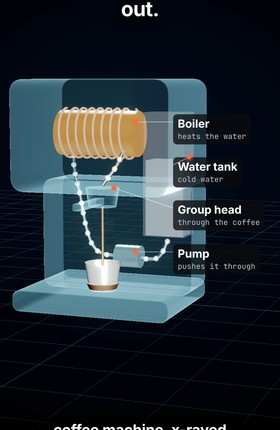
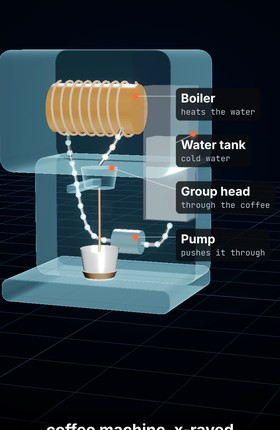
kitchen11 released (Type it, get it #11); made12 fixes after director review
Claude-Session: https://claude.ai/code/session_011mgQaKe9KwV1RxFx2jkPUr

diff --git a/hf/videos/made12/scenes.js b/hf/videos/made12/scenes.js
@@ -53,7 +53,7 @@ function labs(k,list){ return list.map(([i,o,a])=>[document.getElementById('l'+k
   const aS=new THREE.Object3D(); aS.position.set(1.0,0.09,0.75); sc.add(aS);
   const aW=new THREE.Object3D(); aW.position.set(1.0,0.3,0.6); sc.add(aW);
   const aP=new THREE.Object3D(); aP.position.set(1.1,0.1,0.6); sc.add(aP);
-  SCN[0]=function(lt){
+  SCN[0]=function(lt0){ const lt=lt0*1.35;
     // 0.0-0.6 powders press into rods that slide out; 0.45-0.8 baked (glow)
     const pr=easeIO(cl((lt-0.0)/0.5)); gp.scale.setScalar(Math.max(0.01,1-pr)); cp.scale.setScalar(Math.max(0.01,1-pr));
     const ext=easeIO(cl((lt-0.15)/0.45)); const bake=cl((lt-0.4)/0.15)*(1-cl((lt-0.8)/0.25)); leadM.emissiveIntensity=1.6*bake; glow.intensity=5*bake;
@@ -66,7 +66,7 @@ function labs(k,list){ return list.map(([i,o,a])=>[document.getElementById('l'+k
     const pa=cl((lt-1.95)/0.5); paintM.color.copy(lerpC(0xc88f5c,0xf2b21b,pa));
     const z=easeIO(cl(lt/2.6)); const ca=0.5-0.35*z; const rad=10.5-1.6*z; cam.position.set(Math.sin(ca)*rad,5.0-1.0*z,Math.cos(ca)*rad); cam.lookAt(0.2,0.1,-0.15+0.15*z); P.c.render();
     layoutLabels(labs(0,[[0,aL,cl((lt-0.1)/0.2)*(1-cl((lt-1.1)/0.2))],[1,aS,cl((lt-0.85)/0.2)*(1-cl((lt-1.7)/0.15))],[2,aW,cl((lt-1.25)/0.2)*(1-cl((lt-1.75)/0.15))],[3,aP,cl((lt-1.95)/0.2)]]),cam,640,130);
-    caption(0,lt); };
+    caption(0,lt0); };
   sc.traverse(o=>{ const ms=o.material?(Array.isArray(o.material)?o.material:[o.material]):[]; ms.forEach(m=>{ if(m.envMapIntensity!==undefined&&!m.userData.keepEnv) m.envMapIntensity=0.3; }); });
 })();
 
@@ -90,8 +90,8 @@ function labs(k,list){ return list.map(([i,o,a])=>[document.getElementById('l'+k
   const hop=new THREE.Mesh(new THREE.CylinderGeometry(0.45,0.12,0.7,32,1,true),new THREE.MeshPhysicalMaterial({color:0xb7c0ca,metalness:1,roughness:.3,side:THREE.DoubleSide})); hop.position.set(-1.9,BY+0.6,0); sc.add(hop);
   const NG=90, gran=new THREE.InstancedMesh(new THREE.SphereGeometry(0.03,8,6),new THREE.MeshStandardMaterial({color:RED,roughness:.4}),NG); sc.add(gran); const R=rnd(7), gs=[]; for(let i=0;i<NG;i++) gs.push([R(),R()*0.5-0.25,R()*0.5-0.25]);
   // mould: two steel blocks, right half slides away
-  const mL=new THREE.Mesh(new THREE.BoxGeometry(0.5,1.1,1.0),darkS); mL.position.set(0.45,BY,0); sc.add(mL);
-  const mR=new THREE.Mesh(new THREE.BoxGeometry(0.5,1.1,1.0),new THREE.MeshPhysicalMaterial({color:0x3a3f46,metalness:.9,roughness:.4,transparent:true,opacity:.35,depthWrite:false})); sc.add(mR);
+  const mouldM=new THREE.MeshPhysicalMaterial({color:0x8d969f,metalness:1,roughness:.28}); const mL=new THREE.Mesh(new THREE.BoxGeometry(0.5,1.1,1.0),mouldM); mL.position.set(0.45,BY,0); sc.add(mL);
+  const mR=new THREE.Mesh(new THREE.BoxGeometry(0.5,1.1,1.0),new THREE.MeshPhysicalMaterial({color:0x8d969f,metalness:1,roughness:.28,transparent:true,opacity:.55,depthWrite:false})); sc.add(mR);
   const nozzle=new THREE.Mesh(new THREE.ConeGeometry(0.12,0.3,24),steel); nozzle.rotation.z=-Math.PI/2; nozzle.position.set(0.12,BY,0); sc.add(nozzle);
   // brick 2x4 with studs (no logo)
   function brick(){ const g=new THREE.Group(); const b=new THREE.Mesh(rbox(0.64,0.38,0.32,0.02),redM); b.rotation.y=Math.PI/2; b.rotation.x=0; g.add(b);
@@ -105,10 +105,10 @@ function labs(k,list){ return list.map(([i,o,a])=>[document.getElementById('l'+k
   const shd=shadowPlane(5,4,.7); shd.position.y=0; sc.add(shd);
   const aG=new THREE.Object3D(); aG.position.set(-1.7,BY+0.9,0); sc.add(aG);
   const aB=new THREE.Object3D(); aB.position.set(-0.6,BY+0.25,0); sc.add(aB);
-  const aM=new THREE.Object3D(); aM.position.set(0.7,BY+0.55,0.3); sc.add(aM);
+  const aM=new THREE.Object3D(); aM.position.set(1.0,BY+0.3,0.5); sc.add(aM);
   const aO=new THREE.Object3D(); aO.position.set(1.05,0.75,0.6); sc.add(aO);
   const M4=new THREE.Matrix4();
-  SCN[1]=function(lt){
+  SCN[1]=function(lt0){ const lt=lt0*1.15;
     gs.forEach((s,i)=>{ const u=(s[0]+lt*1.3)%1; M4.makeTranslation(-1.9+s[1]*0.6*(1-u),BY+1.05-u*0.75,s[2]*0.6*(1-u)); if(lt>1.6) M4.makeScale(0,0,0); gran.setMatrixAt(i,M4); }); gran.instanceMatrix.needsUpdate=true;
     const heat=cl((lt-0.2)/0.4); bandM.emissiveIntensity=heat*(1.6+0.3*Math.sin(lt*9));
     screw.rotation.x=lt*8; const push=easeIO(cl((lt-0.6)/0.5)); screw.position.x=0.25*push;
@@ -120,7 +120,7 @@ function labs(k,list){ return list.map(([i,o,a])=>[document.getElementById('l'+k
     const mv=easeIO(cl((lt-2.3)/0.4)); old.forEach((b,i)=>{ b.position.z=0.6+(i+1)*0.9+0.9*mv; }); if(pop>=1) B0.position.z=0.6+0.9*mv;
     const z=easeIO(cl(lt/2.6)); const ca=0.75-0.25*z; const rad=11.5-1.2*z; cam.position.set(Math.sin(ca)*rad-0.4,4.2-0.6*z,Math.cos(ca)*rad); cam.lookAt(-0.4+0.3*z,0.9-0.1*z,0.6); P.c.render();
     layoutLabels(labs(1,[[0,aG,cl((lt-0.1)/0.2)],[1,aB,cl((lt-0.4)/0.2)],[2,aM,cl((lt-0.85)/0.2)],[3,aO,cl((lt-1.95)/0.2)]]),cam,660,130);
-    caption(1,lt); };
+    caption(1,lt0); };
   sc.traverse(o=>{ const ms=o.material?(Array.isArray(o.material)?o.material:[o.material]):[]; ms.forEach(m=>{ if(m.envMapIntensity!==undefined&&!m.userData.keepEnv) m.envMapIntensity=0.4; }); });
 })();
 
@@ -148,7 +148,7 @@ function labs(k,list){ return list.map(([i,o,a])=>[document.getElementById('l'+k
   const boreM=new THREE.MeshStandardMaterial({color:0x1a1715,roughness:1,side:THREE.BackSide});
   const bore=new THREE.Mesh(new THREE.CylinderGeometry(0.5,0.5,1,32,1,true),boreM); bore.rotation.z=Math.PI/2; sc.add(bore);
   const ringM=new THREE.MeshStandardMaterial({color:0xbab3a6,roughness:.8,side:THREE.DoubleSide});
-  const rings=[]; for(let x=X0+0.1;x<X1;x+=0.2){ const r=new THREE.Mesh(new THREE.CylinderGeometry(0.5,0.5,0.17,32,1,true,Math.PI,Math.PI),ringM); r.rotation.z=Math.PI/2; r.position.set(x,TY,0); sc.add(r); rings.push(r); }
+  const rings=[]; for(let x=X0+0.1;x<X1;x+=0.2){ const r=new THREE.Mesh(new THREE.TorusGeometry(0.47,0.05,8,40),ringM); r.rotation.y=Math.PI/2; r.position.set(x,TY,0); sc.add(r); rings.push(r); }
   const lampM=glowMat(0xffe0a0,0); const lamps=[]; for(let x=X0+0.2;x<X1;x+=0.4){ const l=new THREE.Mesh(new THREE.SphereGeometry(0.035,8,6),lampM); l.position.set(x,TY+0.38,-0.25); sc.add(l); lamps.push(l); }
   // shaft at the start
   const shaft=new THREE.Mesh(new THREE.BoxGeometry(0.7,1.7,0.9),new THREE.MeshStandardMaterial({color:0x2a2622,roughness:1,side:THREE.BackSide})); shaft.position.set(X0+0.35,TY+0.75,-0.3); sc.add(shaft);
@@ -161,9 +161,9 @@ function labs(k,list){ return list.map(([i,o,a])=>[document.getElementById('l'+k
     for(let j=-2;j<=2;j++){ if(!j) continue; const c=new THREE.Mesh(new THREE.CylinderGeometry(0.035,0.035,0.04,12),new THREE.MeshStandardMaterial({color:0x2a2c30,metalness:1,roughness:.3})); c.rotation.z=Math.PI/2; c.position.set(0.11,j*0.09*Math.cos(k*Math.PI/6),j*0.09*Math.sin(k*Math.PI/6)); head.add(c); } }
   const sparks=[]; for(let i=0;i<14;i++){ const s=new THREE.Mesh(new THREE.SphereGeometry(0.02,6,5),glowMat(0xffb060,0)); sc.add(s); sparks.push(s); }
   // conveyor with dirt chunks running back to the shaft
-  const conv=new THREE.Mesh(new THREE.BoxGeometry(1,0.03,0.18),new THREE.MeshStandardMaterial({color:0x26282b,roughness:.7})); sc.add(conv);
+  const conv=new THREE.Mesh(new THREE.BoxGeometry(1,0.04,0.26),new THREE.MeshStandardMaterial({color:0x3a3d42,roughness:.6})); sc.add(conv);
   const NC=40, chunks=new THREE.InstancedMesh(new THREE.DodecahedronGeometry(0.045),new THREE.MeshStandardMaterial({color:0x6b5138,roughness:1}),NC); sc.add(chunks);
-  const aH=new THREE.Object3D(); head.add(aH); aH.position.set(0.1,0.3,0.3);
+  const aH=new THREE.Object3D(); head.add(aH); aH.position.set(0.12,0.2,0.35);
   const aC=new THREE.Object3D(); sc.add(aC);
   const aR=new THREE.Object3D(); sc.add(aR);
   const M4=new THREE.Matrix4();
@@ -174,10 +174,10 @@ function labs(k,list){ return list.map(([i,o,a])=>[document.getElementById('l'+k
     sparks.forEach((s,i)=>{ const u=((i/14)+lt*2.5)%1; const a=i*2.4; s.position.set(fx+0.15+0.1*u,TY+Math.cos(a)*0.45*(1-u*0.3),Math.sin(a)*0.45+0.05); s.material.opacity=(lt<2.3?0.8:0)*(1-u); });
     const cx0=X0+0.5, cx1=fx-0.2; conv.scale.x=Math.max(0.01,cx1-cx0); conv.position.set((cx0+cx1)/2,TY-0.3,0.15);
     for(let i=0;i<NC;i++){ const u=((i/NC)+lt*0.8)%1; const x=cx1-(cx1-cx0)*u; M4.makeRotationY(i); M4.setPosition(x,TY-0.25,0.15+((i*37)%7-3)*0.012); if(x<cx0+0.05||lt>2.35) M4.makeScale(0,0,0); chunks.setMatrixAt(i,M4); } chunks.instanceMatrix.needsUpdate=true;
-    aC.position.set((cx0+cx1)/2,TY-0.25,0.2); aR.position.set(Math.max(X0+0.4,fx-2.2),TY+0.45,0.1);
+    aC.position.set(cx1-0.9,TY-0.27,0.2); aR.position.set(Math.max(X0+0.4,fx-1.9),TY+0.3,0.38);
     const lit=cl((lt-2.0)/0.5); skyM.uniforms.t.value=lit*0.9; lampM.opacity=lit; winM.opacity=lit*0.9; hemi.intensity=0.45-0.25*lit; sun.intensity=1.0*(1-0.7*lit); sun.color.copy(lerpC(0xfff0d8,0xff8a4a,lit));
     const z=easeIO(cl(lt/2.8)); cam.position.set(-7.6+1.0*z,1.3-0.2*z,12.6-0.8*z); cam.lookAt(0.4+0.4*z,-0.95,-0.3); P.c.render();
-    layoutLabels(labs(2,[[0,aH,cl((lt-0.25)/0.2)],[1,aC,cl((lt-0.7)/0.2)],[2,aR,cl((lt-1.1)/0.2)]]),cam,640,140);
+    layoutLabels(labs(2,[[0,aH,cl((lt-0.25)/0.2)],[1,aC,cl((lt-0.7)/0.2)],[2,aR,cl((lt-1.1)/0.2)]]),cam,690,140);
     caption(2,lt); };
   sc.traverse(o=>{ const ms=o.material?(Array.isArray(o.material)?o.material:[o.material]):[]; ms.forEach(m=>{ if(m.envMapIntensity!==undefined&&!m.userData.keepEnv) m.envMapIntensity=0.25; }); });
 })();

diff --git a/hf/videos/kitchen11/scenes.js b/hf/videos/kitchen11/scenes.js
@@ -60,12 +60,12 @@ function labs(k,list){ return list.map(([i,o,a])=>[document.getElementById('l'+k
   const stream=new THREE.Mesh(new THREE.CylinderGeometry(0.012,0.012,1,8),new THREE.MeshPhysicalMaterial({color:0x5a2e12,roughness:.1,clearcoat:1})); stream.position.set(0,0,0.22); M.add(stream);
   const steam=[]; for(let i=0;i<8;i++){ const s=new THREE.Mesh(new THREE.SphereGeometry(0.05,10,8),glowMat(0xffffff,0)); M.add(s); steam.push(s); }
   const scan=new THREE.Mesh(new THREE.PlaneGeometry(1.6,2.6),glowMat(0x7fe6ff,0)); scan.rotation.y=Math.PI/2; scan.position.y=1.2; sc.add(scan);
-  const scanL=new THREE.Mesh(new THREE.BoxGeometry(0.015,2.3,1.4),glowMat(0xbff4ff,0)); scanL.position.y=1.2; sc.add(scanL);
+  const scanL=new THREE.LineSegments(new THREE.EdgesGeometry(new THREE.PlaneGeometry(1.4,2.3)),new THREE.LineBasicMaterial({color:0xbff4ff,transparent:true,opacity:0,toneMapped:false})); scanL.rotation.y=Math.PI/2; scanL.position.y=1.2; sc.add(scanL);
   const grid=new THREE.GridHelper(14,28,0x2e6f99,0x173247); grid.material.transparent=true; grid.material.opacity=.5; grid.position.y=0.22; sc.add(grid);
   const A=(x,y,z)=>{ const o=new THREE.Object3D(); o.position.set(x,y,z); M.add(o); return o; };
   const aT=A(0.66,1.55,-0.38), aP=A(0.18,0.62,-0.2), aB=A(0.25,1.9,0), aG=A(0.15,1.3,0.3);
   SCN[0]=function(lt){ const s=1.5-3.0*easeIO(cl((lt-0.05)/0.85)); scanP.constant=s+0.3; scanX.constant=-(s+0.3); scan.position.x=s; scanL.position.x=s;
-    const sv=cl(lt/0.12)*(1-cl((lt-0.85)/0.15)); scan.material.opacity=0.12*sv; scanL.material.opacity=0.9*sv;
+    const sv=cl(lt/0.12)*(1-cl((lt-0.85)/0.15)); scan.material.opacity=0.06*sv; scanL.material.opacity=0.9*sv;
     const flow=cl((lt-0.85)/0.3), heat=cl((lt-1.05)/0.4);
     pump.material.emissiveIntensity=flow*(0.6+0.4*Math.sin(lt*30)); boilM.emissiveIntensity=heat*0.8; coilM.emissiveIntensity=heat*(1.6+0.3*Math.sin(lt*9));
     parts.forEach((m,i)=>{ const u=(i/NP+lt*0.55)%1; m.position.copy(path.getPointAt(u)); const hot=cl((u-0.6)/0.15)*heat; m.material.color.copy(lerpC(0x5fc8ff,0xffa040,hot)); m.material.opacity=flow*0.95; });
@@ -139,7 +139,7 @@ function labs(k,list){ return list.map(([i,o,a])=>[document.getElementById('l'+k
   const cam=new THREE.PerspectiveCamera(30,1080/1920,0.1,100);
   const P=mkComposer(ren,sc,cam,{bloom:0.55,radius:0.5,th:0.92});
   const key=new THREE.DirectionalLight(0xffffff,0.8); key.position.set(-3,7,5); sc.add(key); sc.add(new THREE.HemisphereLight(0xcfd8ff,0x201812,0.3));
-  const T=new THREE.Group(); T.rotation.y=0.55; sc.add(T);
+  const T=new THREE.Group(); T.rotation.y=0.55; T.scale.setScalar(0.9); sc.add(T);
   const chrome=new THREE.MeshPhysicalMaterial({color:0xd6dade,metalness:1,roughness:.3,clearcoat:.6,envMapIntensity:1.6});
   const dark=new THREE.MeshStandardMaterial({color:0x1c1e21,roughness:.5});
   // shell: rounded body with two slots cut in the top (built from a frame of slabs)
@@ -152,13 +152,13 @@ function labs(k,list){ return list.map(([i,o,a])=>[document.getElementById('l'+k
   const knob=new THREE.Mesh(new THREE.CylinderGeometry(0.07,0.07,0.05,24),dark); knob.rotation.x=Math.PI/2; knob.position.set(0.55,0.3,0.56); SH.add(knob);
   // base + crumb tray
   const base=new THREE.Mesh(rbox(1.75,0.08,1.1,0.04),dark); base.rotation.x=Math.PI/2; base.position.y=0.0; T.add(base);
-  const tray=new THREE.Mesh(new THREE.BoxGeometry(1.5,0.03,0.9),new THREE.MeshStandardMaterial({color:0x5d6268,metalness:.8,roughness:.6})); T.add(tray);
+  const tray=new THREE.Mesh(new THREE.BoxGeometry(1.5,0.03,0.9),new THREE.MeshStandardMaterial({color:0x4a4e54,metalness:.6,roughness:.75,envMapIntensity:.3})); T.add(tray);
   const crumbs=new THREE.InstancedMesh(new THREE.BoxGeometry(0.025,0.015,0.02),new THREE.MeshStandardMaterial({color:0x9a6a36,roughness:.9}),30); const R=rnd(3); const M4=new THREE.Matrix4();
   for(let i=0;i<30;i++){ M4.makeTranslation((R()-.5)*1.3,0.02,(R()-.5)*0.75); crumbs.setMatrixAt(i,M4); } tray.add(crumbs);
   // heating elements: mica sheet + zig-zag wire, at z = -0.38, 0, +0.38
-  const wireM=new THREE.MeshStandardMaterial({color:0x6b5a50,metalness:.6,roughness:.4,emissive:0xff3a10,emissiveIntensity:0});
+  const wireM=new THREE.MeshStandardMaterial({color:0x1a0a05,metalness:.3,roughness:.5,emissive:0xff2200,emissiveIntensity:0,toneMapped:false});
   const wireGlow=glowMat(0xff2a00,0);
-  const micaM=new THREE.MeshPhysicalMaterial({color:0xe9dcc0,roughness:.5,transparent:true,opacity:.55,side:THREE.DoubleSide});
+  const micaM=new THREE.MeshPhysicalMaterial({color:0x8a7a62,roughness:.6,transparent:true,opacity:.4,side:THREE.DoubleSide});
   const EL=[]; [-0.38,0,0.38].forEach(z=>{ const g=new THREE.Group(); g.userData.z=z; const mica=new THREE.Mesh(new THREE.PlaneGeometry(1.4,0.7),micaM); g.add(mica);
     const zz=new THREE.Curve(); zz.getPoint=t=>new THREE.Vector3(-0.66+1.32*t,0.3*Math.sin(t*Math.PI*22),0.012*Math.cos(t*Math.PI*44)); const tg=new THREE.TubeGeometry(zz,600,0.009,5,false); g.add(new THREE.Mesh(tg,wireM)); const gl=new THREE.Mesh(tg,wireGlow); gl.scale.set(1,1,1.6); g.add(gl);
     g.position.set(0,0.5,z); T.add(g); EL.push(g); });
@@ -171,13 +171,13 @@ function labs(k,list){ return list.map(([i,o,a])=>[document.getElementById('l'+k
   const aW=new THREE.Object3D(); aW.position.set(0.5,0.2,0); EL[2].add(aW);
   const aB=new THREE.Object3D(); aB.position.set(0.4,0.3,0.06); slices[1].add(aB);
   const aTr=new THREE.Object3D(); aTr.position.set(0.7,0,0.4); tray.add(aTr);
-  SCN[2]=function(lt){ const e=easeIO(cl((lt-0.3)/0.9));
+  SCN[2]=function(lt){ const e=easeIO(cl((lt-0.1)/0.65));
     SH.position.y=1.75*e; tray.position.set(0.25*e,-0.03-0.62*e,0); base.position.y=-0.05-0.45*e;
     EL.forEach(g=>{ g.position.z=g.userData.z*(1+1.9*e); }); slices.forEach(g=>{ g.position.z=g.userData.z*(1+2.6*e); g.position.y=0.5+0.15*e; });
-    const heat=cl((lt-1.15)/0.5); wireM.emissiveIntensity=heat*(2.2+0.3*Math.sin(lt*11)); wireGlow.opacity=heat*(0.4+0.05*Math.sin(lt*11)); breadM.emissiveIntensity=0.08*heat;
-    const brown=cl((lt-1.3)/0.9); breadM.color.copy(lerpC(0xd9bf8c,0x7a3c14,brown)); crustM.color.copy(lerpC(0xb5803f,0x4a2410,brown));
+    const heat=cl((lt-0.6)/0.35); wireM.emissiveIntensity=heat*(1.6+0.2*Math.sin(lt*11)); wireGlow.opacity=heat*(0.5+0.05*Math.sin(lt*11)); breadM.emissiveIntensity=0.08*heat;
+    const brown=cl((lt-0.75)/0.8); breadM.color.copy(lerpC(0xd9bf8c,0x7a3c14,brown)); crustM.color.copy(lerpC(0xb5803f,0x4a2410,brown));
     T.rotation.y=0.55+0.25*easeIO(cl(lt/3));
-    const z=easeIO(cl((lt-0.2)/1.4)); cam.position.set(-1.2,3.2+1.0*z,8.6+1.2*z); cam.lookAt(0,0.8+0.3*z,0); P.c.render();
-    layoutLabels(labs(2,[[0,aSh,cl((lt-0.7)/0.2)],[1,aW,cl((lt-1.25)/0.2)],[2,aB,cl((lt-1.55)/0.2)],[3,aTr,cl((lt-0.95)/0.2)]]),cam,650,130);
+    const z=easeIO(cl((lt-0.1)/1.0)); cam.position.set(-1.2,3.2+1.0*z,8.6+1.2*z); cam.lookAt(0,0.62+0.3*z,0); P.c.render();
+    layoutLabels(labs(2,[[0,aSh,cl((lt-0.5)/0.2)],[1,aW,cl((lt-0.7)/0.2)],[2,aB,cl((lt-0.95)/0.2)],[3,aTr,cl((lt-0.6)/0.2)]]),cam,650,130);
     caption(2,lt); };
 })();

diff --git a/hf/videos/kitchen11/build.py b/hf/videos/kitchen11/build.py
@@ -45,8 +45,8 @@ F.scenes([0])
 S, E = F.S, F.E
 
 DEMOS = [  # Type idx, (cmd i0,i1), (prompt i0,i1), 'and' idx, cmd, prompt, title, caption, hi, chip description
-    (0, (2, 2), (3, 5), 6, "x-ray", "a coffee machine", "coffee machine, x-rayed", "Cold water in. Hot espresso out.", 4, "See inside anything with an x-ray scan"),
-    (10, (12, 13), (14, 18), 19, "explain-3d", "how a microwave heats food", "microwave, explained in 3D", "Waves shake the water in food.", 1, "Explain how anything works in 3D"),
+    (0, (2, 2), (3, 5), 6, "x-ray", "a coffee machine", "coffee machine, x-rayed", "Cold water in. / Hot espresso out.", 4, "See inside anything with an x-ray scan"),
+    (10, (12, 13), (14, 18), 19, "explain-3d", "how a microwave heats food", "microwave, explained in 3D", "Waves shake / the water in food.", 1, "Explain how anything works in 3D"),
     (23, (25, 25), (26, 27), 28, "explode", "a toaster", "toaster, exploded", "Hot wires glow. Bread browns.", 2, "Take anything apart, layer by layer"),
 ]
 CMD = DEMOS[0][4]
@@ -59,7 +59,7 @@ for k, (a, (ci0, ci1), (pi0, pi1), andi, cmd, prompt, title, cap, hi, desc) in e
     p0, p1 = S[pi0], E[pi1] - 0.05
     send = round(S[andi] - 0.12, 3)
     TY.append({"T": T, "slash": t_slash, "c0": c0, "c1": c1, "p0": p0, "p1": p1, "send": send, "card": send + 0.12,
-               "full": send + 0.5, "end": nxt, "prompt": prompt, "cap": cap.split(), "hi": hi, "cmd": cmd, "desc": desc})
+               "full": send + 0.5, "end": nxt, "prompt": prompt, "cap": [w for w in cap.split() if w != "/"], "hi": hi, "cmd": cmd, "desc": desc})
     F.sfx.append((T, "whoosh")); F.sfx.append((send, "click")); F.sfx.append((send + 0.12, "pop"))
     for i in range(len(cmd)):
         F.sfx.append((c0 + (c1 - c0) * i / len(cmd), "tick"))
@@ -103,7 +103,9 @@ stages = ""
 for k, (a, _c, _p, _a, cmd, prompt, title, cap, hi, desc) in enumerate(DEMOS):
     labs = "".join(f'<div class="lb" id="l{k}_{i}"><i class="ld" id="ld{k}_{i}"></i><b>{n}</b>' + (f'<span>{s}</span>' if s else '') + '</div>'
                    for i, (n, s) in enumerate(LABELS[k]))
-    capw = "".join(f'<span class="cw{" hi" if i == hi else ""}" id="c{k}_{i}">{w}</span> ' for i, w in enumerate(cap.split()))
+    _cw, capw = [w for w in cap.split() if w != "/"], ""
+    _br = {len([x for x in cap.split()[:j] if x != "/"]) for j, x in enumerate(cap.split()) if x == "/"}
+    capw = "".join(("<br>" if i in _br else "") + f'<span class="cw{" hi" if i == hi else ""}" id="c{k}_{i}">{w}</span> ' for i, w in enumerate(_cw))
     stages += (f'<div class="stage" id="st{k}"><canvas id="cv{k}" width="1080" height="1920"></canvas>'
                f'<div class="cap">{capw}</div>{labs}'
                f'<div class="ttl"><b>{title}</b><i>with Claude Code</i></div></div>')

diff --git a/hf/videos/made12/build.py b/hf/videos/made12/build.py
@@ -45,7 +45,7 @@ F.scenes([0])
 S, E = F.S, F.E
 
 DEMOS = [  # Type idx, (cmd i0,i1), (prompt i0,i1), 'and' idx, cmd, prompt, title, caption, hi, chip description
-    (0, (2, 4), (5, 6), 7, "how-its-made", "a pencil", "pencil, how it's made", "Lead between two slats of wood.", 0, "See how anything is made, step by step"),
+    (0, (2, 4), (5, 6), 7, "how-its-made", "a pencil", "pencil, how it's made", "Graphite between / two slats of wood.", 0, "See how anything is made, step by step"),
     (11, (13, 14), (15, 17), 18, "factory-line", "a Lego brick", "Lego brick, factory line", "Melt. Inject. Cool. Pop out.", 1, "Follow anything down a factory line"),
     (22, (24, 24), (25, 28), 29, "time-lapse", "a tunnel being dug", "tunnel time-lapse", "Dig. Line it. Repeat.", 0, "Watch anything get built, start to finish"),
 ]
@@ -59,7 +59,7 @@ for k, (a, (ci0, ci1), (pi0, pi1), andi, cmd, prompt, title, cap, hi, desc) in e
     p0, p1 = S[pi0], E[pi1] - 0.05
     send = round(S[andi] - 0.12, 3)
     TY.append({"T": T, "slash": t_slash, "c0": c0, "c1": c1, "p0": p0, "p1": p1, "send": send, "card": send + 0.12,
-               "full": send + 0.5, "end": nxt, "prompt": prompt, "cap": cap.split(), "hi": hi, "cmd": cmd, "desc": desc})
+               "full": send + 0.5, "end": nxt, "prompt": prompt, "cap": [w for w in cap.split() if w != "/"], "hi": hi, "cmd": cmd, "desc": desc})
     F.sfx.append((T, "whoosh")); F.sfx.append((send, "click")); F.sfx.append((send + 0.12, "pop"))
     for i in range(len(cmd)):
         F.sfx.append((c0 + (c1 - c0) * i / len(cmd), "tick"))
@@ -103,7 +103,9 @@ stages = ""
 for k, (a, _c, _p, _a, cmd, prompt, title, cap, hi, desc) in enumerate(DEMOS):
     labs = "".join(f'<div class="lb" id="l{k}_{i}"><i class="ld" id="ld{k}_{i}"></i><b>{n}</b>' + (f'<span>{s}</span>' if s else '') + '</div>'
                    for i, (n, s) in enumerate(LABELS[k]))
-    capw = "".join(f'<span class="cw{" hi" if i == hi else ""}" id="c{k}_{i}">{w}</span> ' for i, w in enumerate(cap.split()))
+    _cw, capw = [w for w in cap.split() if w != "/"], ""
+    _br = {len([x for x in cap.split()[:j] if x != "/"]) for j, x in enumerate(cap.split()) if x == "/"}
+    capw = "".join(("<br>" if i in _br else "") + f'<span class="cw{" hi" if i == hi else ""}" id="c{k}_{i}">{w}</span> ' for i, w in enumerate(_cw))
     stages += (f'<div class="stage" id="st{k}"><canvas id="cv{k}" width="1080" height="1920"></canvas>'
                f'<div class="cap">{capw}</div>{labs}'
                f'<div class="ttl"><b>{title}</b><i>with Claude Code</i></div></div>')

diff --git a/hf/videos/made12/prompts.md b/hf/videos/made12/prompts.md
@@ -1,0 +1,19 @@
+# made12 prompts — DM for comment MADE
+Save as Claude Code commands (.claude/commands/<name>.md, "$ARGUMENTS" = your topic) or paste directly.
+
+/how-its-made — Make a 9:16 full-screen 3D "how it's made" film (three.js, rendered frame by frame with HTML + GSAP, ~4 s) of
+$ARGUMENTS, showing the real production steps in order, from raw materials to the finished product. Studio HDRI light, bloom,
+depth. Labels with leader lines for each step, a short caption word by word with one key word in a blue box. No invented numbers.
+  Example: /how-its-made a pencil  (graphite + clay pressed into rods and baked → laid in the grooves of a wood slat → a second slat
+  glued on top → cut into pencils → painted)
+
+/factory-line — Make a 9:16 full-screen 3D factory-line film (three.js, ~4 s) of $ARGUMENTS: follow one product through the real
+machines, side view, see-through where the action happens inside, ending with finished products moving off on a conveyor.
+Labels + caption as above.
+  Example: /factory-line a Lego brick  (plastic granules → heated barrel melts them → a screw pushes the plastic into a steel mould
+  → it cools, the mould opens, the brick pops out onto the belt)
+
+/time-lapse — Make a 9:16 full-screen 3D time-lapse (three.js, ~4 s) of $ARGUMENTS from nothing to finished, in the real build
+order. Slow camera move, the sky turns to dusk at the end and the lights come on. Labels + caption as above.
+  Example: /time-lapse a tunnel being dug  (cross-section of the ground: a tunnel boring machine's cutter head spins and grinds the
+  rock, a conveyor carries the dirt out, concrete rings line the tunnel behind it)

diff --git a/hf/videos/kitchen11/prompts.md b/hf/videos/kitchen11/prompts.md
@@ -1,0 +1,17 @@
+# kitchen11 prompts — DM for comment KITCHEN
+Save as Claude Code commands (.claude/commands/<name>.md, "$ARGUMENTS" = your topic) or paste directly.
+
+/x-ray — Make a 9:16 full-screen 3D x-ray film (three.js, rendered frame by frame with HTML + GSAP, ~4 s) of $ARGUMENTS. Start with
+the real, solid object; a glowing scan line sweeps across it and everything behind the line turns into a blue see-through x-ray
+that shows the real parts inside. Then the parts work: show what flows through them, in the right order. Studio HDRI light, bloom.
+Labels with leader lines for each part, a short caption word by word with one key word in a blue box. No invented numbers.
+  Example: /x-ray a coffee machine  (water tank → pump → boiler heats the water → group head → espresso into the cup)
+
+/explain-3d — Make a 9:16 full-screen 3D explainer (three.js, rendered frame by frame with HTML + GSAP, ~4 s) of $ARGUMENTS. The
+outer shell turns see-through, the camera pushes in, and the real mechanism plays step by step. Labels + caption as above.
+  Example: /explain-3d how a microwave heats food  (magnetron makes microwaves → they bounce off the metal walls → the turntable
+  spins → water in the food shakes and heats up)
+
+/explode — 3D exploded view of $ARGUMENTS: start with the assembled object, then every part flies apart in build order, then one
+key part comes to life (glows, moves, works). Labels + caption as above.
+  Example: /explode a toaster  (shell lifts off, crumb tray drops, heating wire on mica sheets glows red, the bread browns)
